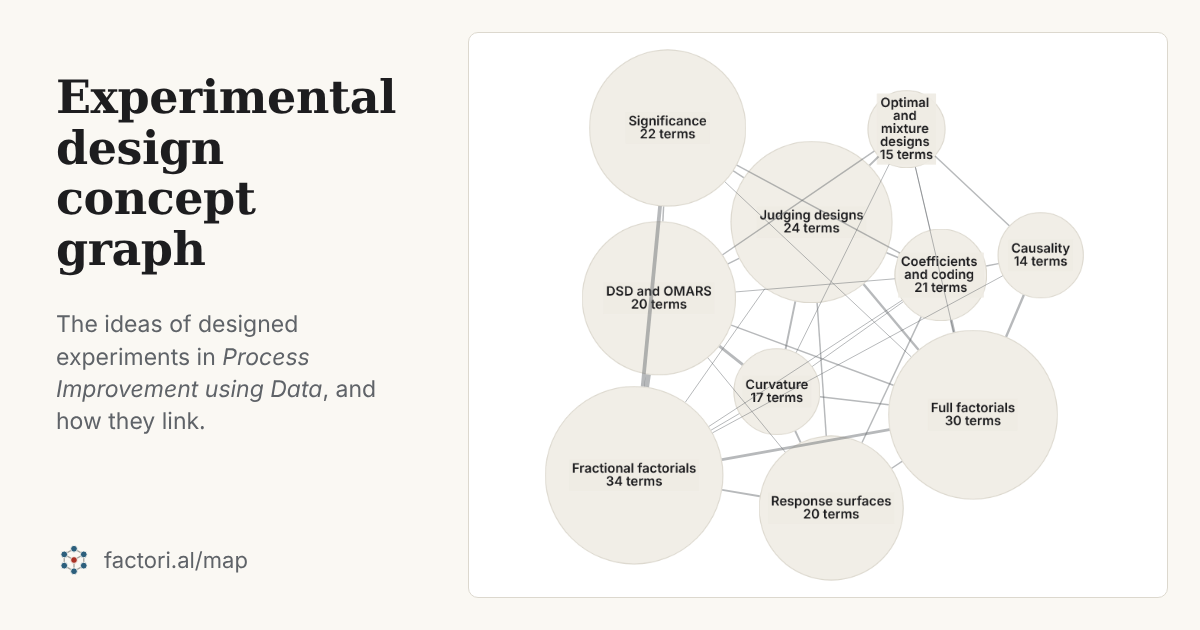
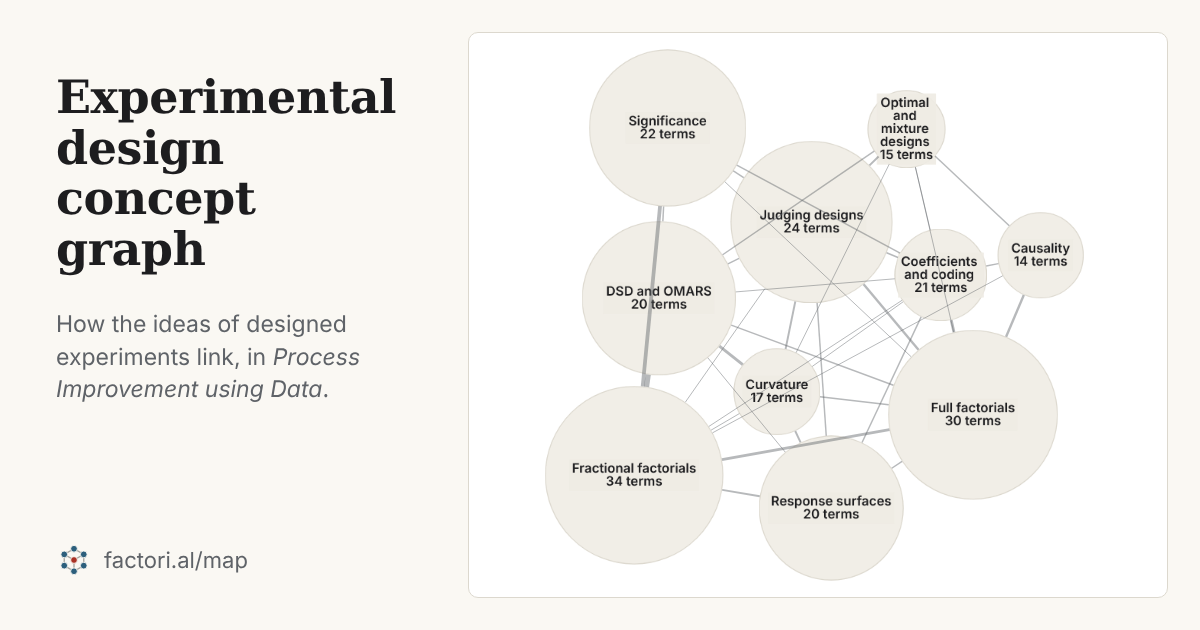
Concept map: a lede that fits two lines in any phone's font
The lede ran to three lines at 390 px in CI, whose sans-serif is DejaVu
Sans, wider than a phone's own font. "How the ideas of designed experiments
link, in Process Improvement using Data." fits two lines in every font
tried, and the check now measures in DejaVu Sans, so it holds on any phone.

Claude-Session: https://claude.ai/code/session_01S4nNrQxDbkPfBSvQKx2d1D

Changed region(s): [[0.0308, 0.4825, 0.3083, 0.6032], [0.0308, 0.6635, 0.185, 0.6937], [0.2775, 0.6032, 0.3083, 0.6333]]

diff --git a/web/map/index.html b/web/map/index.html
@@ -34,7 +34,7 @@
 <main class="map">
   <p class="about__back"><a href="../"><img src="../favicon.svg" alt="" width="28" height="28"> Back to Factorial</a></p>
   <h1>Experimental design concept graph</h1>
-  <p class="lede">The ideas of designed experiments in <em>Process Improvement using Data</em>, and how they link.</p>
+  <p class="lede">How the ideas of designed experiments link, in <em>Process Improvement using Data</em>.</p>
   <p class="map-meta"><button type="button" class="map-howlink" id="howlink">How this map was made</button></p>
 
   <div class="map-search">

diff --git a/tests/web/e2e/test_concept_map.py b/tests/web/e2e/test_concept_map.py
@@ -284,7 +284,9 @@ def test_it_reads_on_a_phone_without_scrolling_sideways(context, site):
     )
     assert wider == []
     lines = page.evaluate(
-        """() => { const r = document.createRange(); r.selectNodeContents(document.querySelector('.lede'));
+        # In DejaVu Sans, wider than any phone's own font, so two lines here are two lines on any phone.
+        """() => { const lede = document.querySelector('.lede'); lede.style.fontFamily = '"DejaVu Sans", sans-serif';
+                   const r = document.createRange(); r.selectNodeContents(lede);
                    return new Set([...r.getClientRects()].map((b) => Math.round(b.top))).size; }"""
     )
     assert lines <= 2, f"the lede takes {lines} lines on a phone"
